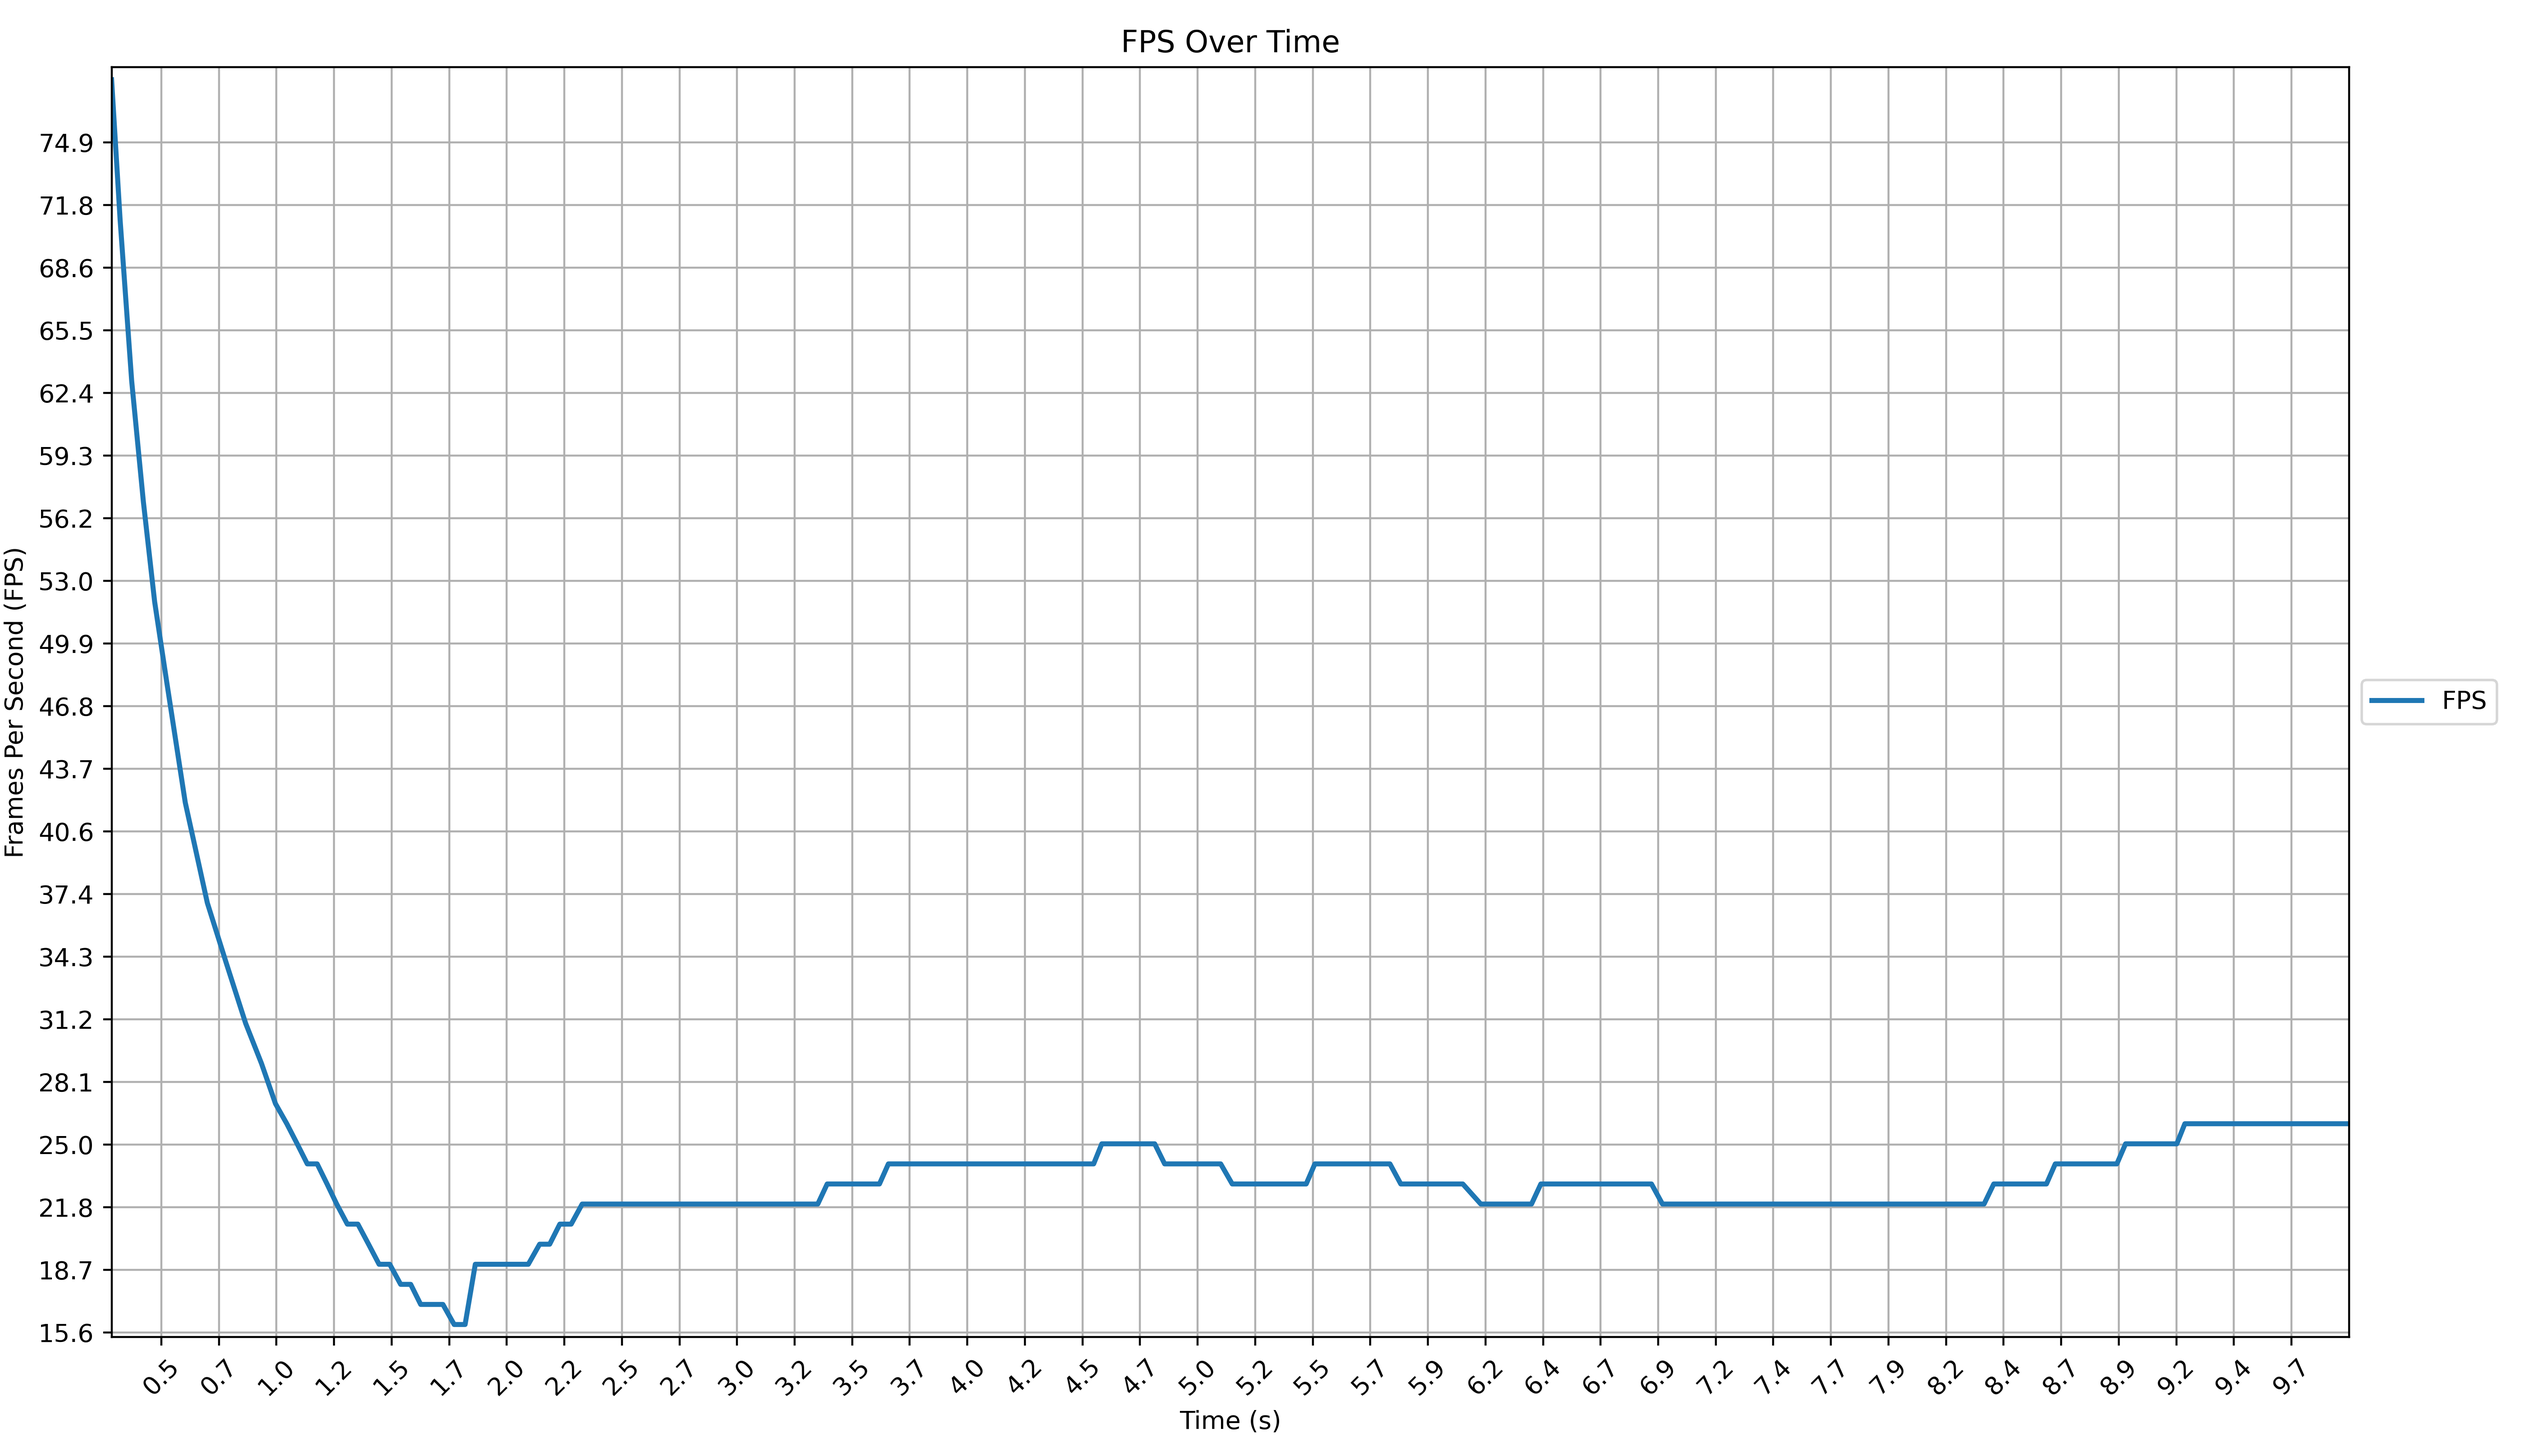
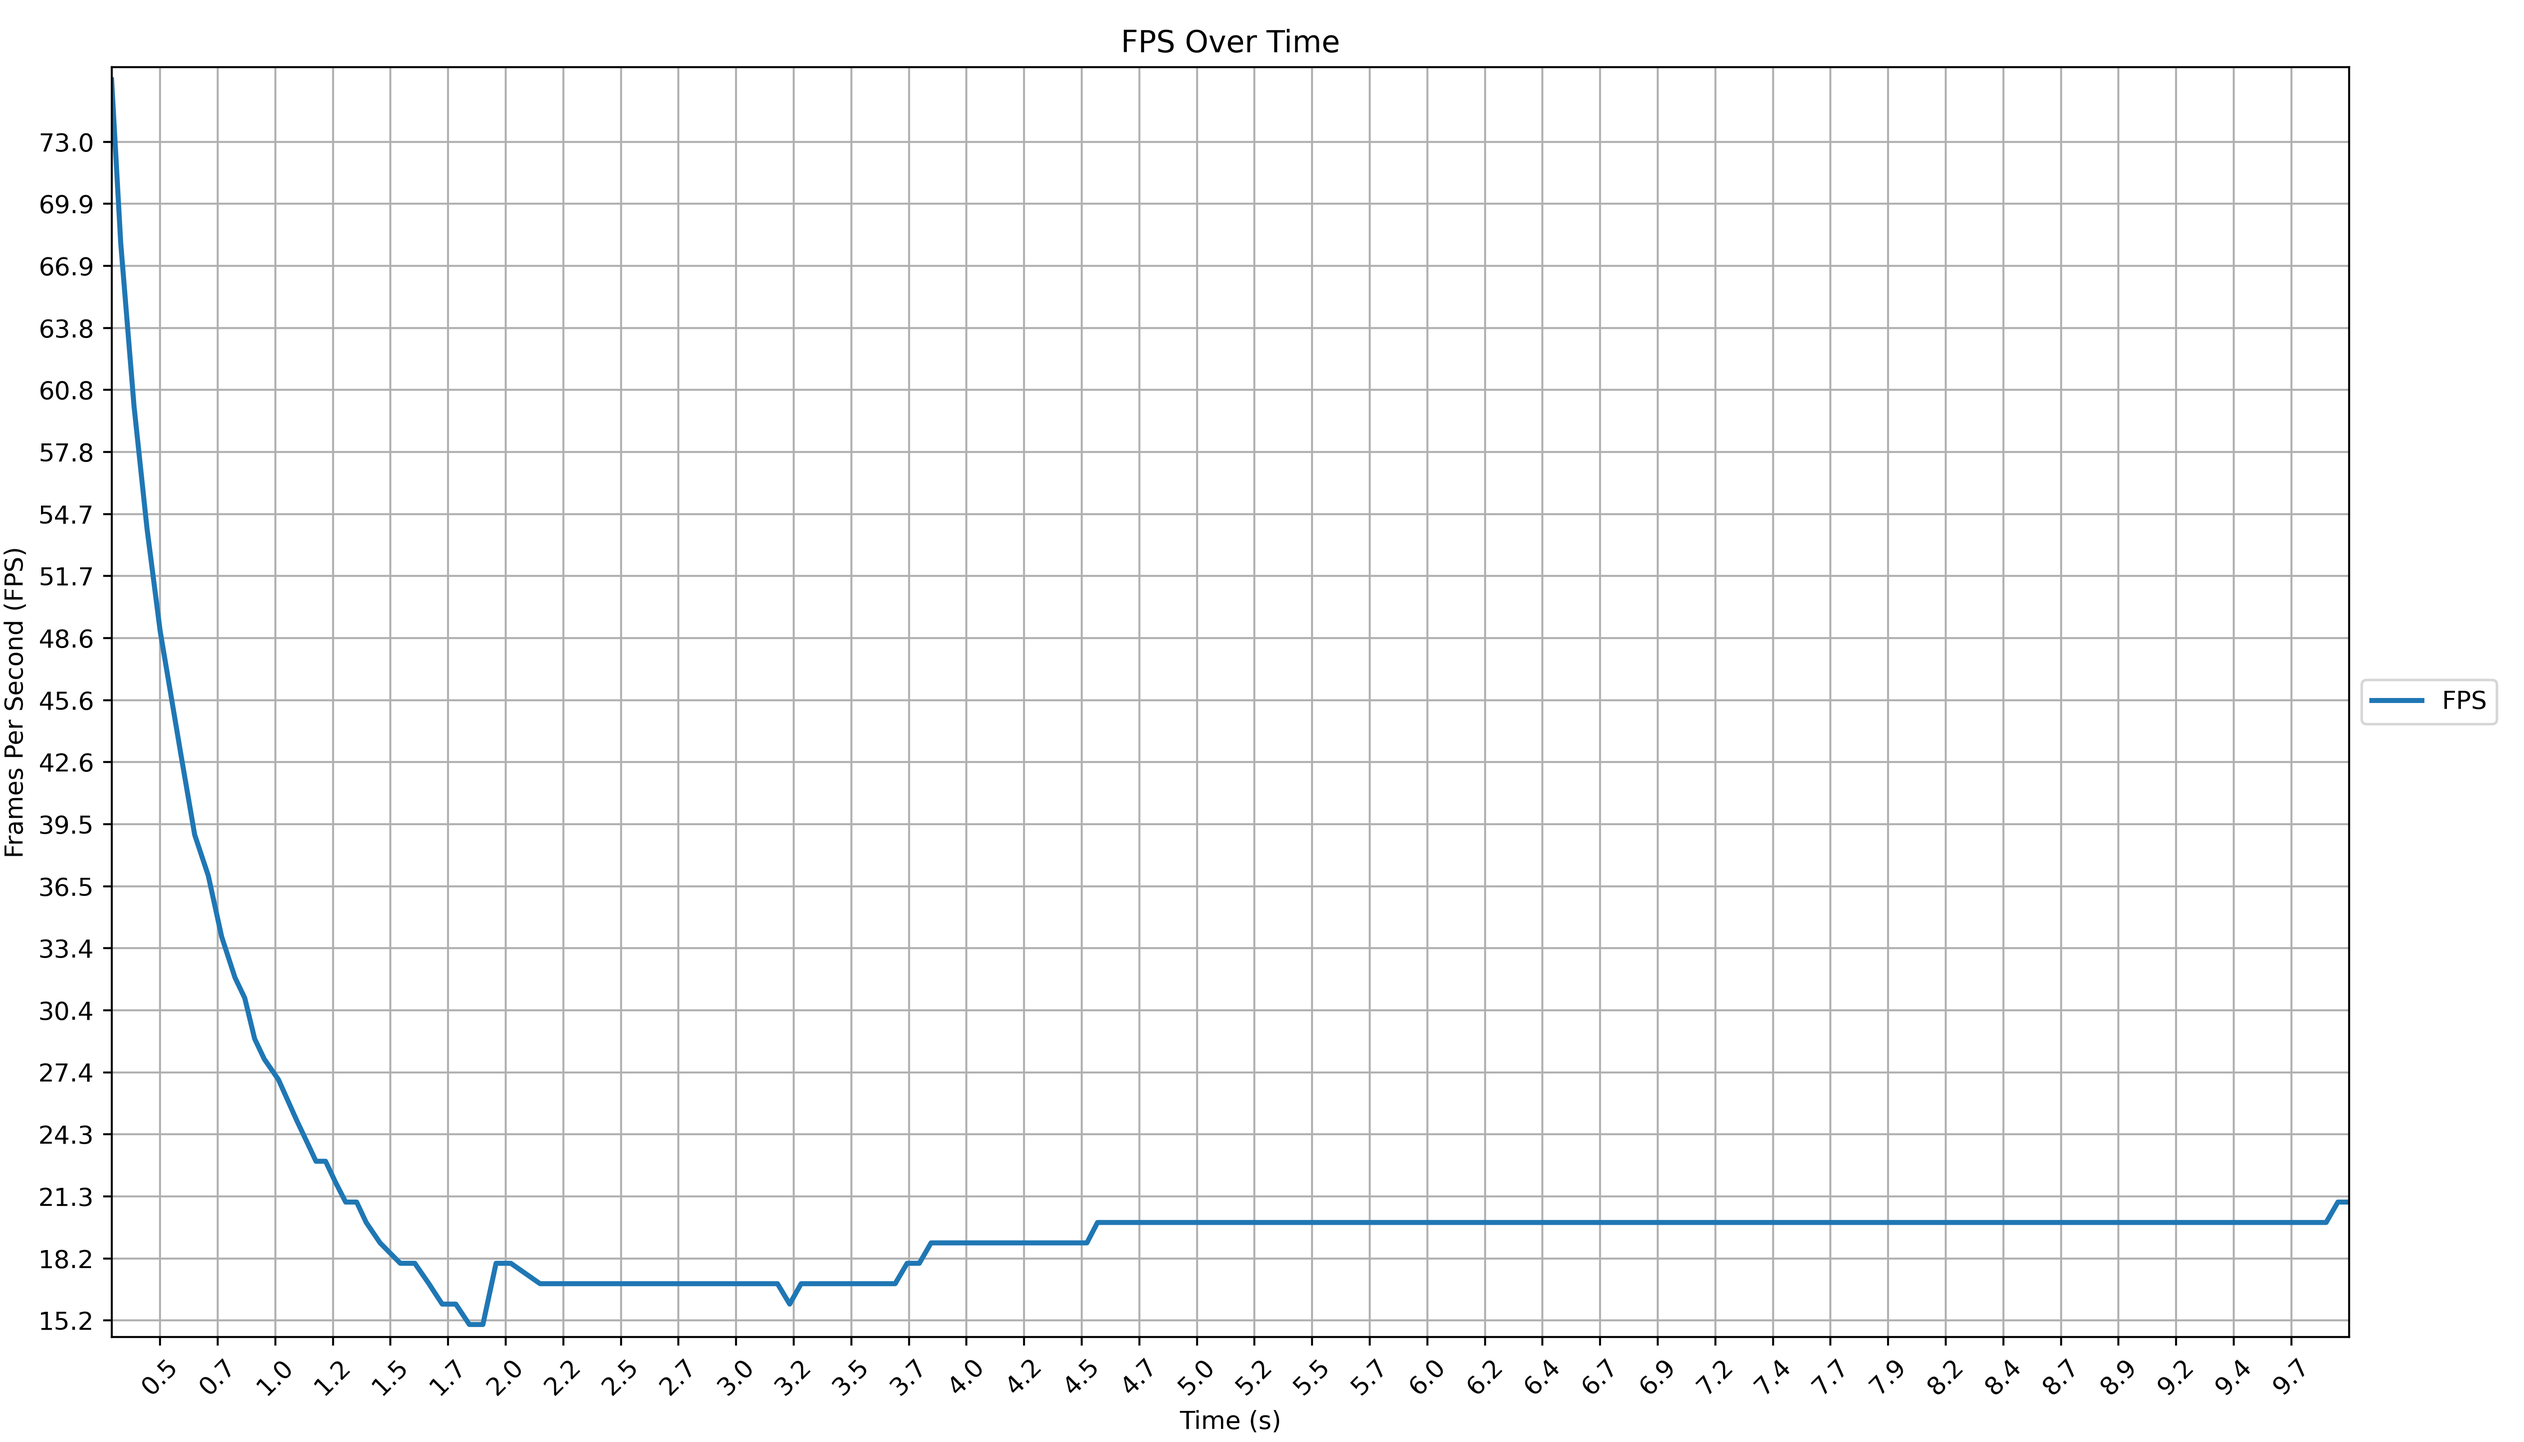
Update physics benchmark report

diff --git a/benchmarks/physics/report.md b/benchmarks/physics/report.md
@@ -1,6 +1,6 @@
 # Physics Benchmark Report
 
-This benchmark ran for 9.91 seconds and captured 221 data points.
+This benchmark ran for 9.92 seconds and captured 187 data points.
 
 ### Benchmark Information
 
@@ -8,16 +8,16 @@ This benchmark ran for 9.91 seconds and captured 221 data points.
 
 ### Average System Response Times
 
-Average FPS: 24.25
+Average FPS: 21.13
 
 - timing: 0.01 ms
 - input: 0.02 ms
-- transform: 11.90 ms
-- ui: 0.00 ms
-- collision: 12.24 ms
-- physics: 18.05 ms
+- transform: 11.70 ms
+- ui: 0.01 ms
+- collision: 19.72 ms
+- physics: 17.93 ms
 - animation: 0.02 ms
-- total: 46.05 ms
+- total: 53.20 ms
 - render: 3.81 ms
 - audio: 0.01 ms
 
